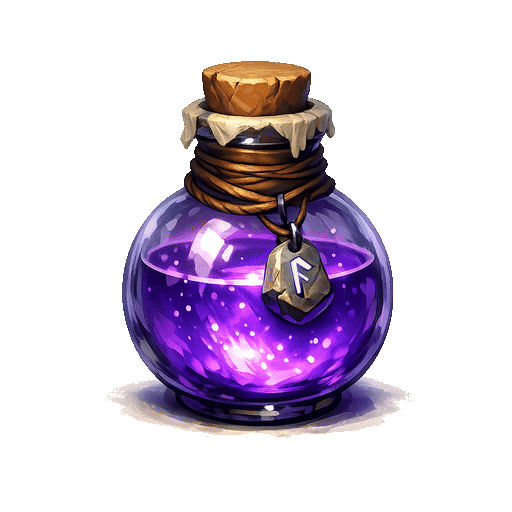
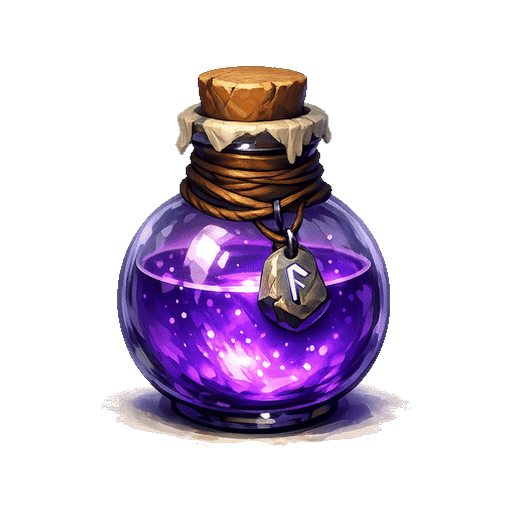
Shop: condense intro text + normalize potion bottle sizes (Ric O.)
Ric O. (21 Jun): "reduce the text size so more of the shop is visible" +
"the potion in the middle is larger than those on the left and right".

1. Shop intro blurb condensed from a 3-block paragraph to one compact 12px
   line (.shop-intro) so the potions show above the fold on mobile.
2. The shop cards/images are pixel-identical (verified 289×289 each) — the
   "bigger middle" was the art: Vitality (green) glows more and Intelligence
   (purple) is a genuinely wider bottle, and those land in the middle column.
   Normalized all 6 trait potions to a uniform 380px footprint (trim to
   content + recenter) so every bottle reads the same size. Originals backed
   up to /tmp/potion_backup.

Changed region(s): [[0.1875, 0.0938, 0.8125, 0.875]]

diff --git a/index.html b/index.html
@@ -4700,6 +4700,12 @@
     font-size: 15px; line-height: 1.55;
     margin: 0 auto 22px; max-width: 520px;
   }
+  /* Compact shop intro so the actual potions show above the fold on mobile
+     (Ric O., 21 Jun: "reduce the text size so more of the shop is visible"). */
+  .welcome-sub.shop-intro {
+    font-size: 12px; line-height: 1.4;
+    margin: 4px auto 10px; max-width: 460px;
+  }
   .welcome-potions {
     display: flex; flex-direction: column; gap: 14px;
     margin: 18px 0 24px;
@@ -6481,13 +6487,8 @@
     <div class="shop-header">
       <div class="welcome-eyebrow">✦ The Apothecary ✦</div>
       <h2 class="guide-title">Shop</h2>
-      <p class="welcome-sub">
-        Buy potions and NFT items with <b>PYR</b>.
-        <br/><span style="color:var(--muted);font-size:12px;">
-          NFTs (equipment, limited potions, champion eggs) are batch-delivered to your wallet within a few days of purchase.
-          Standard potions are credited to your inventory instantly.
-        </span>
-        <br/><span style="color:var(--muted);font-size:11px;">🧪 QA: trait, evolution &amp; blessing potions are <b>free</b> so you can test any species. NFT items (equipment, limited drops, eggs) charge real PYR on Elysium — connect a funded wallet for those.</span>
+      <p class="welcome-sub shop-intro">
+        <b style="color:var(--text);">🧪 Potions are free in QA.</b> NFT items (gear, limited drops, eggs) charge real <b>PYR</b> on Elysium &amp; batch-deliver to your wallet; standard potions land instantly.
       </p>
       <!-- Shop tabs. Updated 2026-05-21 — Champion eggs moved out of the
            shop; they live in the dedicated Adopt nav-button flow instead
